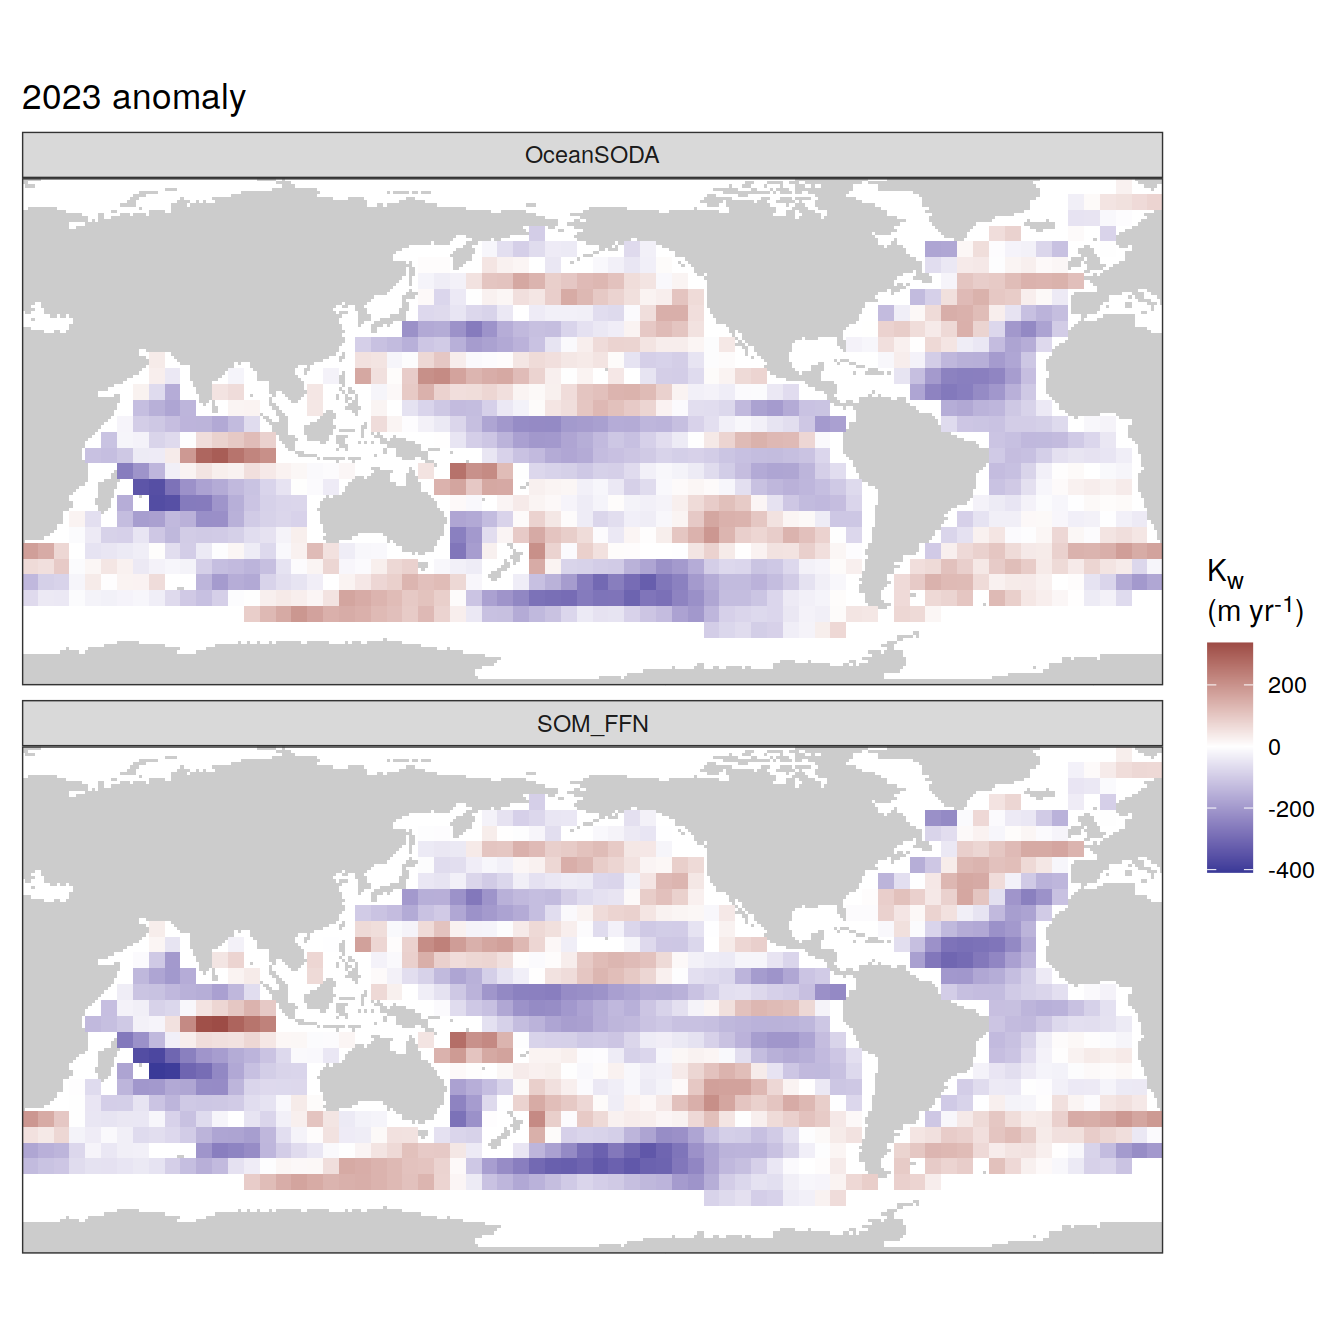
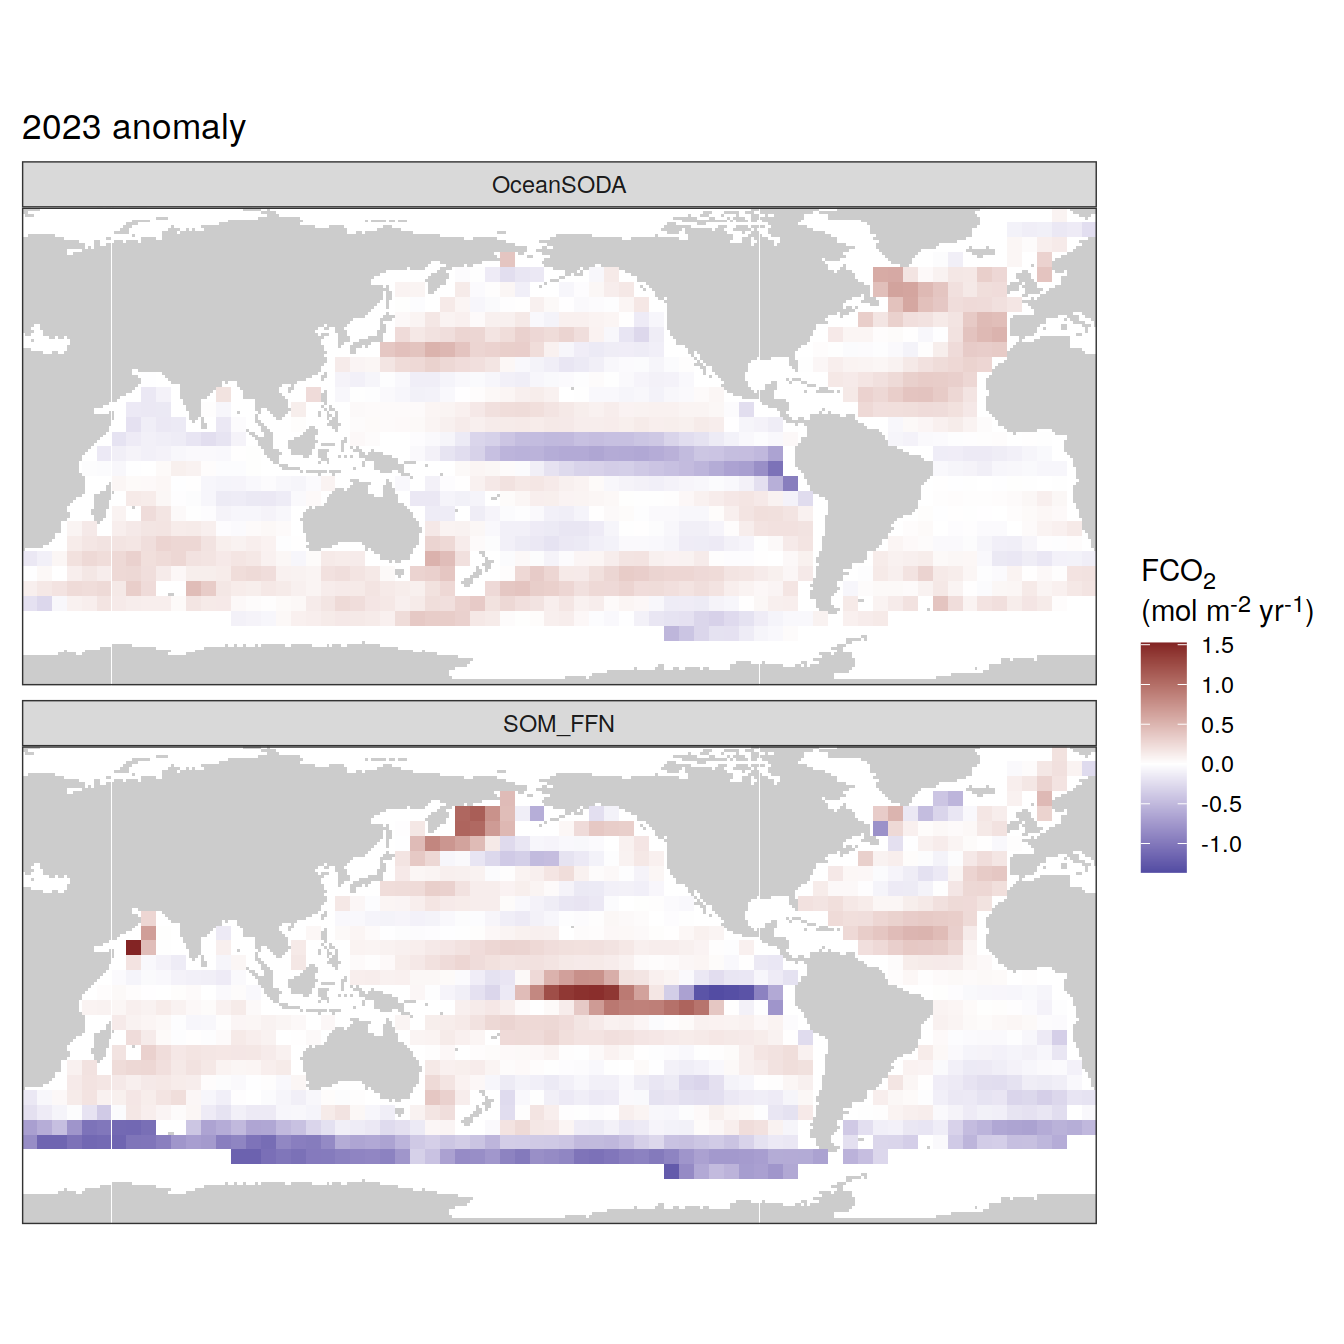
Build site.

diff --git a/docs/pco2_product_synopsis.html b/docs/pco2_product_synopsis.html
@@ -558,15 +558,15 @@ project makes it easier to run your code on other machines.</p>
 <div class="panel panel-default">
 <div class="panel-heading">
 <p class="panel-title">
-<a data-toggle="collapse" data-parent="#workflowr-checks" href="#strongRepositoryversionstrongahrefhttpsgithubcomjensdanielmuellerheatwaveco2flux2023tree2fdbfecf950cbbcaa3b62c8a6794f0a7723fa3c4targetblank2fdbfeca">
+<a data-toggle="collapse" data-parent="#workflowr-checks" href="#strongRepositoryversionstrongahrefhttpsgithubcomjensdanielmuellerheatwaveco2flux2023tree0431bc1c559b1a89e242e8b97bd46fe785bf3d97targetblank0431bc1a">
 <span class="glyphicon glyphicon-ok text-success"
 aria-hidden="true"></span> <strong>Repository version:</strong>
-<a href="https://github.com/jens-daniel-mueller/heatwave_co2_flux_2023/tree/2fdbfecf950cbbcaa3b62c8a6794f0a7723fa3c4" target="_blank">2fdbfec</a>
+<a href="https://github.com/jens-daniel-mueller/heatwave_co2_flux_2023/tree/0431bc1c559b1a89e242e8b97bd46fe785bf3d97" target="_blank">0431bc1</a>
 </a>
 </p>
 </div>
 <div
[2 lines of base64/hex data omitted]
 class="panel-collapse collapse">
 <div class="panel-body">
 <p>
@@ -576,7 +576,7 @@ reproducibility.
 </p>
 <p>
 The results in this page were generated with repository version
-<a href="https://github.com/jens-daniel-mueller/heatwave_co2_flux_2023/tree/2fdbfecf950cbbcaa3b62c8a6794f0a7723fa3c4" target="_blank">2fdbfec</a>.
+<a href="https://github.com/jens-daniel-mueller/heatwave_co2_flux_2023/tree/0431bc1c559b1a89e242e8b97bd46fe785bf3d97" target="_blank">0431bc1</a>.
 See the <em>Past versions</em> tab to see a history of the changes made
 to the R Markdown and HTML files.
 </p>
@@ -593,10 +593,6 @@ were generated:
 Ignored files:
     Ignored:    .Rhistory
     Ignored:    .Rproj.user/
-
-Unstaged changes:
-    Modified:   analysis/child/pCO2_product_analysis.Rmd
-    Modified:   code/Workflowr_project_managment.R
 
 </code></pre>
 <p>
@@ -642,6 +638,40 @@ Message
 </tr>
 </thead>
 <tbody>
+<tr>
+<td>
+Rmd
+</td>
+<td>
+<a href="https://github.com/jens-daniel-mueller/heatwave_co2_flux_2023/blob/0431bc1c559b1a89e242e8b97bd46fe785bf3d97/analysis/pco2_product_synopsis.Rmd" target="_blank">0431bc1</a>
+</td>
+<td>
+jens-daniel-mueller
+</td>
+<td>
+2024-03-21
+</td>
+<td>
+generate all plots
+</td>
+</tr>
+<tr>
+<td>
+html
+</td>
+<td>
+<a href="https://rawcdn.githack.com/jens-daniel-mueller/heatwave_co2_flux_2023/47238dacd8470c84be5ce74dad63d2556fce604e/docs/pco2_product_synopsis.html" target="_blank">47238da</a>
+</td>
+<td>
+jens-daniel-mueller
+</td>
+<td>
+2024-03-21
+</td>
+<td>
+Build site.
+</td>
+</tr>
 <tr>
 <td>
 html
@@ -1026,9 +1056,8 @@ annual mean is removed.</p>
 <h3>2023 anomaly</h3>
 <pre class="r"><code>pco2_product_coarse_annual_regression %&gt;%
   filter(name %in% name_core) %&gt;%
-  filter(name %in% &quot;kw&quot;) %&gt;%
   group_split(name) %&gt;%
-  # head(4) %&gt;%
+  # head(1) %&gt;%
   map(
     ~ map +
       geom_tile(data = .x,
@@ -1088,6 +1117,159 @@ jens-daniel-mueller
 </table>
 </div>
 </div>
+<pre><code>
+[[2]]</code></pre>
+<p><img src="figure/pco2_product_synopsis.Rmd/anomaly_2023_annual_mean_maps-2.png" width="672" style="display: block; margin: auto;" /></p>
+<p>
+<button type="button" class="btn btn-default btn-xs btn-workflowr btn-workflowr-fig" data-toggle="collapse" data-target="#fig-anomaly_2023_annual_mean_maps-2">
+Past versions of anomaly_2023_annual_mean_maps-2.png
+</button>
+</p>
+<div id="fig-anomaly_2023_annual_mean_maps-2" class="collapse">
+<div class="table-responsive">
+<table class="table table-condensed table-hover">
+<thead>
+<tr>
+<th>
+Version
+</th>
+<th>
+Author
+</th>
+<th>
+Date
+</th>
+</tr>
+</thead>
+<tbody>
+<tr>
+<td>
+<a href="https://github.com/jens-daniel-mueller/heatwave_co2_flux_2023/blob/2fdbfecf950cbbcaa3b62c8a6794f0a7723fa3c4/docs/figure/pco2_product_synopsis.Rmd/anomaly_2023_annual_mean_maps-2.png" target="_blank">2fdbfec</a>
+</td>
+<td>
+jens-daniel-mueller
+</td>
+<td>
+2024-03-21
+</td>
+</tr>
+<tr>
+<td>
+<a href="https://github.com/jens-daniel-mueller/heatwave_co2_flux_2023/blob/83fcd67dd84dc8d6e9059e1b9b9448c1d96efdbc/docs/figure/pco2_product_synopsis.Rmd/anomaly_2023_annual_mean_maps-2.png" target="_blank">83fcd67</a>
+</td>
+<td>
+jens-daniel-mueller
+</td>
+<td>
+2024-03-21
+</td>
+</tr>
+</tbody>
+</table>
+</div>
+</div>
+<pre><code>
+[[3]]</code></pre>
+<p><img src="figure/pco2_product_synopsis.Rmd/anomaly_2023_annual_mean_maps-3.png" width="672" style="display: block; margin: auto;" /></p>
+<p>
+<button type="button" class="btn btn-default btn-xs btn-workflowr btn-workflowr-fig" data-toggle="collapse" data-target="#fig-anomaly_2023_annual_mean_maps-3">
+Past versions of anomaly_2023_annual_mean_maps-3.png
+</button>
+</p>
+<div id="fig-anomaly_2023_annual_mean_maps-3" class="collapse">
+<div class="table-responsive">
+<table class="table table-condensed table-hover">
+<thead>
+<tr>
+<th>
+Version
+</th>
+<th>
+Author
+</th>
+<th>
+Date
+</th>
+</tr>
+</thead>
+<tbody>
+<tr>
+<td>
+<a href="https://github.com/jens-daniel-mueller/heatwave_co2_flux_2023/blob/2fdbfecf950cbbcaa3b62c8a6794f0a7723fa3c4/docs/figure/pco2_product_synopsis.Rmd/anomaly_2023_annual_mean_maps-3.png" target="_blank">2fdbfec</a>
+</td>
+<td>
+jens-daniel-mueller
+</td>
+<td>
+2024-03-21
+</td>
+</tr>
+<tr>
+<td>
+<a href="https://github.com/jens-daniel-mueller/heatwave_co2_flux_2023/blob/83fcd67dd84dc8d6e9059e1b9b9448c1d96efdbc/docs/figure/pco2_product_synopsis.Rmd/anomaly_2023_annual_mean_maps-3.png" target="_blank">83fcd67</a>
+</td>
+<td>
+jens-daniel-mueller
+</td>
+<td>
+2024-03-21
+</td>
+</tr>
+</tbody>
+</table>
+</div>
+</div>
+<pre><code>
+[[4]]</code></pre>
+<p><img src="figure/pco2_product_synopsis.Rmd/anomaly_2023_annual_mean_maps-4.png" width="672" style="display: block; margin: auto;" /></p>
+<p>
+<button type="button" class="btn btn-default btn-xs btn-workflowr btn-workflowr-fig" data-toggle="collapse" data-target="#fig-anomaly_2023_annual_mean_maps-4">
+Past versions of anomaly_2023_annual_mean_maps-4.png
+</button>
+</p>
+<div id="fig-anomaly_2023_annual_mean_maps-4" class="collapse">
+<div class="table-responsive">
+<table class="table table-condensed table-hover">
+<thead>
+<tr>
+<th>
+Version
+</th>
+<th>
+Author
+</th>
+<th>
+Date
+</th>
+</tr>
+</thead>
+<tbody>
+<tr>
+<td>
+<a href="https://github.com/jens-daniel-mueller/heatwave_co2_flux_2023/blob/2fdbfecf950cbbcaa3b62c8a6794f0a7723fa3c4/docs/figure/pco2_product_synopsis.Rmd/anomaly_2023_annual_mean_maps-4.png" target="_blank">2fdbfec</a>
+</td>
+<td>
+jens-daniel-mueller
+</td>
+<td>
+2024-03-21
+</td>
+</tr>
+<tr>
+<td>
+<a href="https://github.com/jens-daniel-mueller/heatwave_co2_flux_2023/blob/83fcd67dd84dc8d6e9059e1b9b9448c1d96efdbc/docs/figure/pco2_product_synopsis.Rmd/anomaly_2023_annual_mean_maps-4.png" target="_blank">83fcd67</a>
+</td>
+<td>
+jens-daniel-mueller
+</td>
+<td>
+2024-03-21
+</td>
+</tr>
+</tbody>
+</table>
+</div>
+</div>
 </div>
 </div>
 <div id="monthly-means" class="section level2">
@@ -1097,7 +1279,7 @@ jens-daniel-mueller
 <pre class="r"><code>pco2_product_coarse_monthly_regression %&gt;%
   filter(name %in% name_core) %&gt;%
   group_split(name) %&gt;%
-  head(1) %&gt;%
+  # head(1) %&gt;%
   map(
     ~ map +
       geom_tile(data = .x,
@@ -1146,6 +1328,15 @@ jens-daniel-mueller
 </table>
 </div>
 </div>
+<pre><code>
+[[2]]</code></pre>
+<p><img src="figure/pco2_product_synopsis.Rmd/anomaly_2023_monthly_mean_maps-2.png" width="672" style="display: block; margin: auto;" /></p>
+<pre><code>
+[[3]]</code></pre>
+<p><img src="figure/pco2_product_synopsis.Rmd/anomaly_2023_monthly_mean_maps-3.png" width="672" style="display: block; margin: auto;" /></p>
+<pre><code>
+[[4]]</code></pre>
+<p><img src="figure/pco2_product_synopsis.Rmd/anomaly_2023_monthly_mean_maps-4.png" width="672" style="display: block; margin: auto;" /></p>
 </div>
 </div>
 </div>
